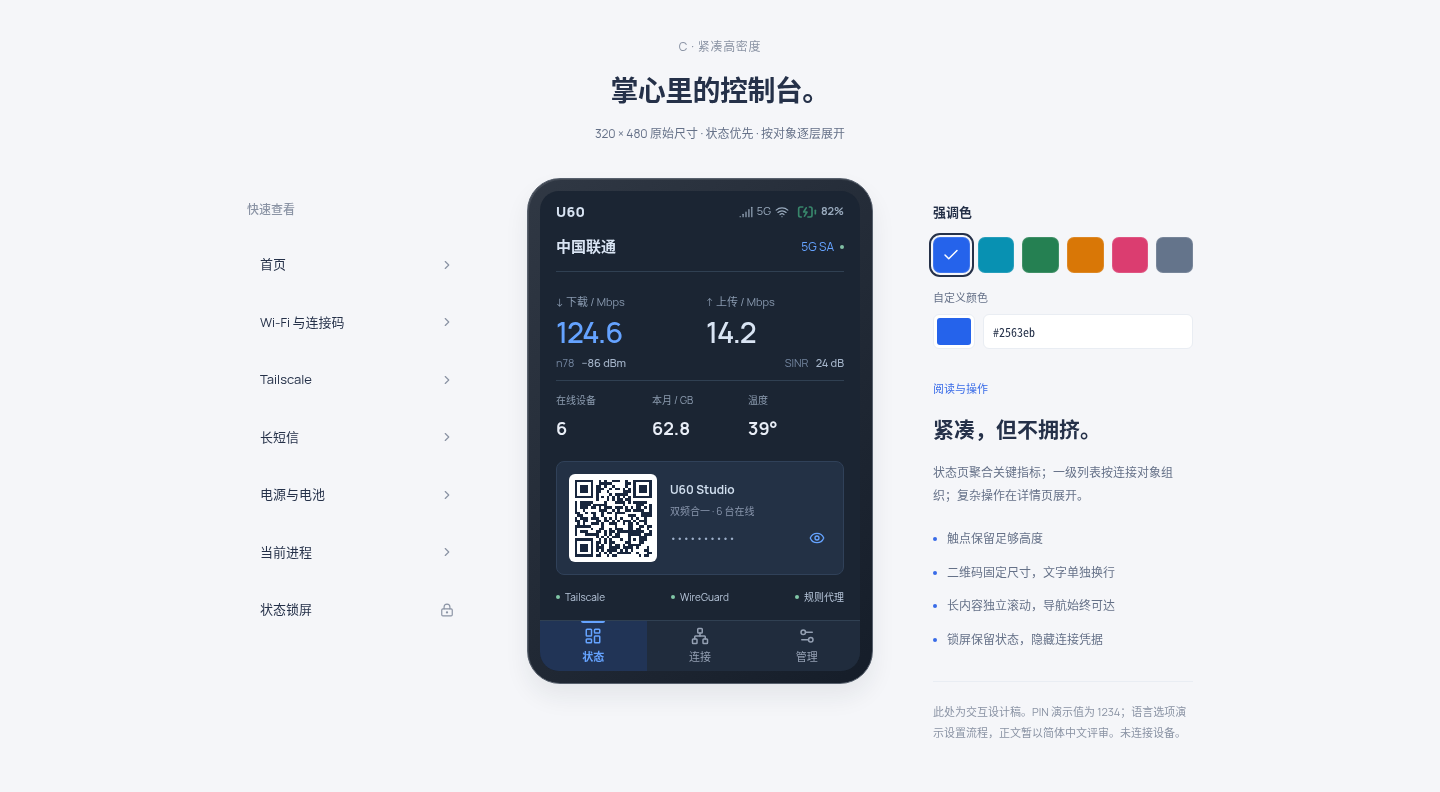
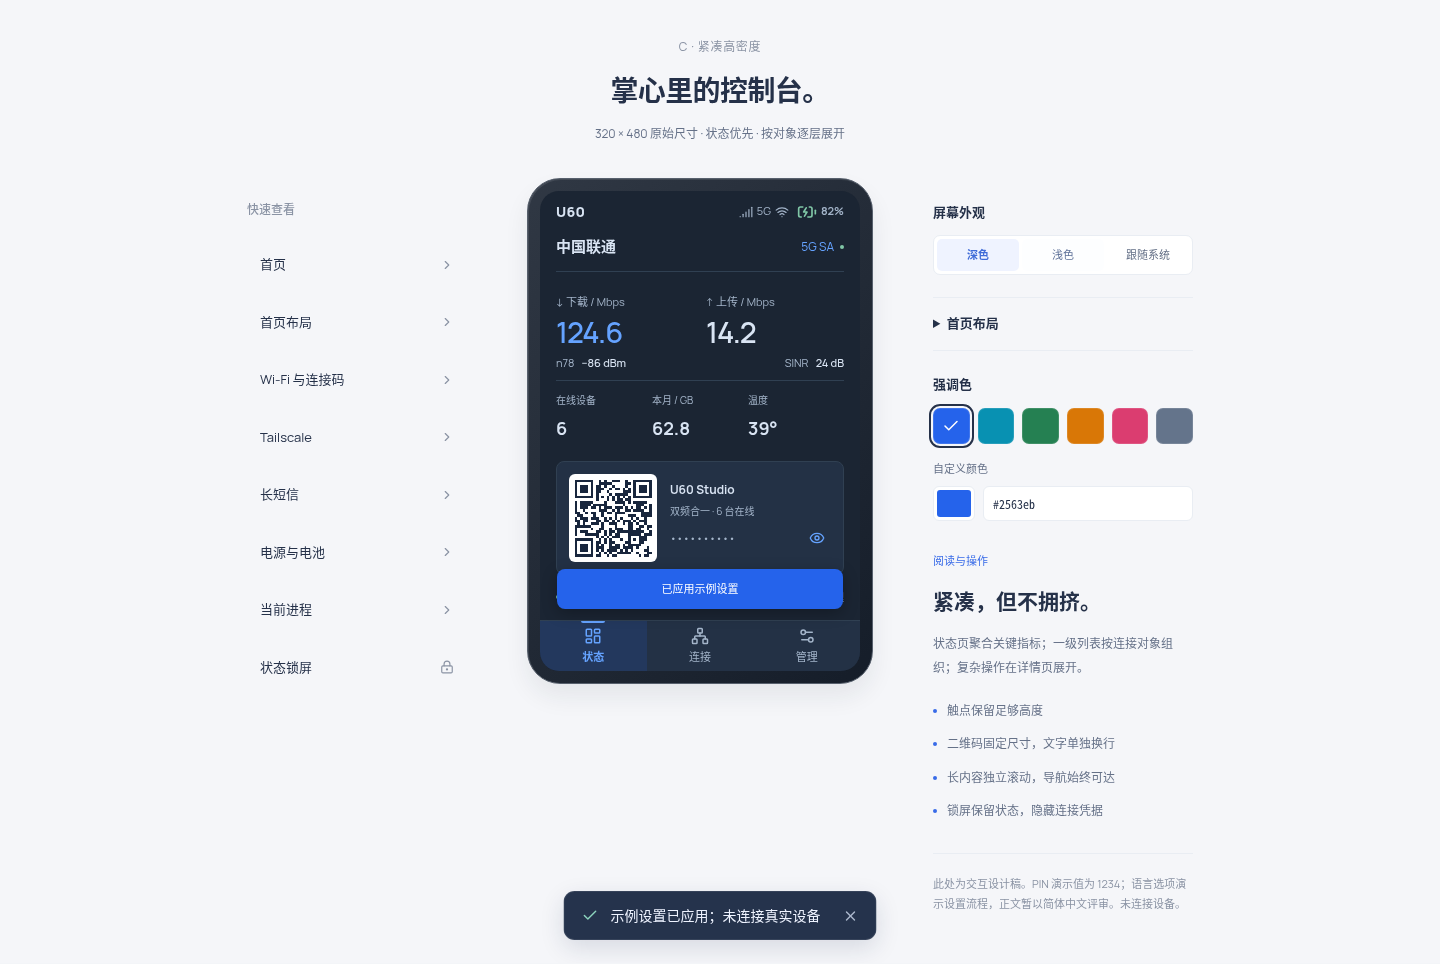
docs(design): document home customization and editable screen controls

diff --git a/design/product-ui/README.md b/design/product-ui/README.md
@@ -34,6 +34,12 @@ bash design/product-ui/preview.sh
 
 屏幕强调色可在预览旁的色板、屏幕「管理 → 屏幕与安全 → 强调色」，或 Web 的屏幕设置中调整。提供六种预设和 `#RRGGBB` 自定义色，浏览器会记住选择。重点读数、趋势线、选中导航、按钮和解锁提示使用同一强调色；文字自动保证对比度，充电与告警保留各自的状态颜色。[橙色示例](previews/product-screen-accent-orange.png)。
 
+屏幕支持浅色、深色和跟随系统，主题与强调色独立保存，覆盖详情、弹层、锁屏和 PIN 页面。可在预览旁、屏幕「管理 → 屏幕与安全 → 界面外观」或 Web 屏幕设置中切换。
+
+「首页布局」可配置是否显示信号详情、Wi-Fi 连接卡片和组网服务摘要，也可单独隐藏某项服务。三个快捷指标支持在线设备、已用／剩余流量、CPU、内存、温度、电量、运行时间或不显示；选择已有指标会交换位置。设置在预览中即时生效并保留到下次打开；隐藏摘要只影响首页展示，不停止服务。
+
+屏幕服务配置页的运行模式与流量范围可直接点击修改，显示应用影响后确认。此处仍为示例交互，真实设备的保存、重载、重启与回读验证在后续接口接入时完成。
+
 公开截图使用中性示例名称的发布预览，例如 `http://127.0.0.1:5176/?view=screen&presentation=public`；切换页面与初版风格会保留该模式。
 
 实际设备继续使用 Rust + Slint。浏览器里的屏幕原型用于审阅尺寸、信息密度和交互；它不替代设备版的字体、触摸、性能与功耗验证。
@@ -52,6 +58,8 @@ bash design/product-ui/preview.sh
 | 系统设置     | [电源与电池](previews/product-system.png)                                                                                                        |
 | 设备屏幕     | [首页](previews/product-screen-home.png) · [连接列表](previews/product-screen-connections.png) · [服务详情](previews/product-screen-tailnet.png) |
 | 屏幕关键流程 | [锁屏](previews/product-screen-lock.png) · [双频连接码](previews/product-screen-wifi.png) · [长短信底部](previews/product-screen-sms.png)        |
+
+[浅色首页](previews/product-screen-home-light.png) · [浅色锁屏](previews/product-screen-lock-light.png) · [自定义指标与隐藏服务](previews/product-screen-home-custom.png) · [首页布局设置](previews/product-screen-layout.png) · [可编辑的运行设置](previews/product-screen-runtime.png)
 
 [页面层级与实现约束](DESIGN.md) · [82 项功能归属数据](src/features.json)
 
